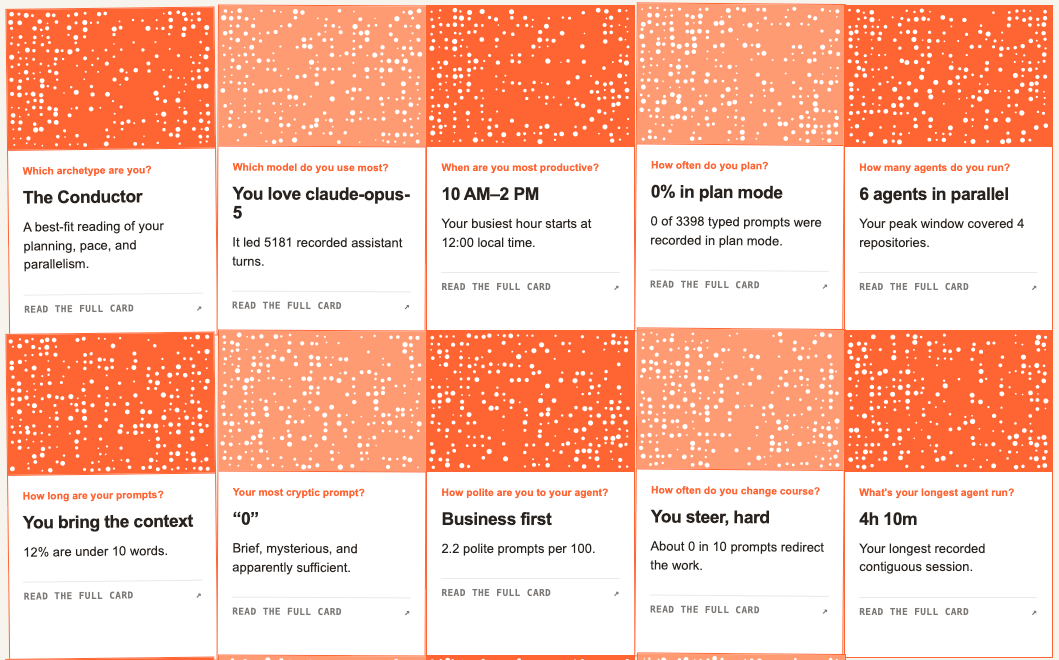
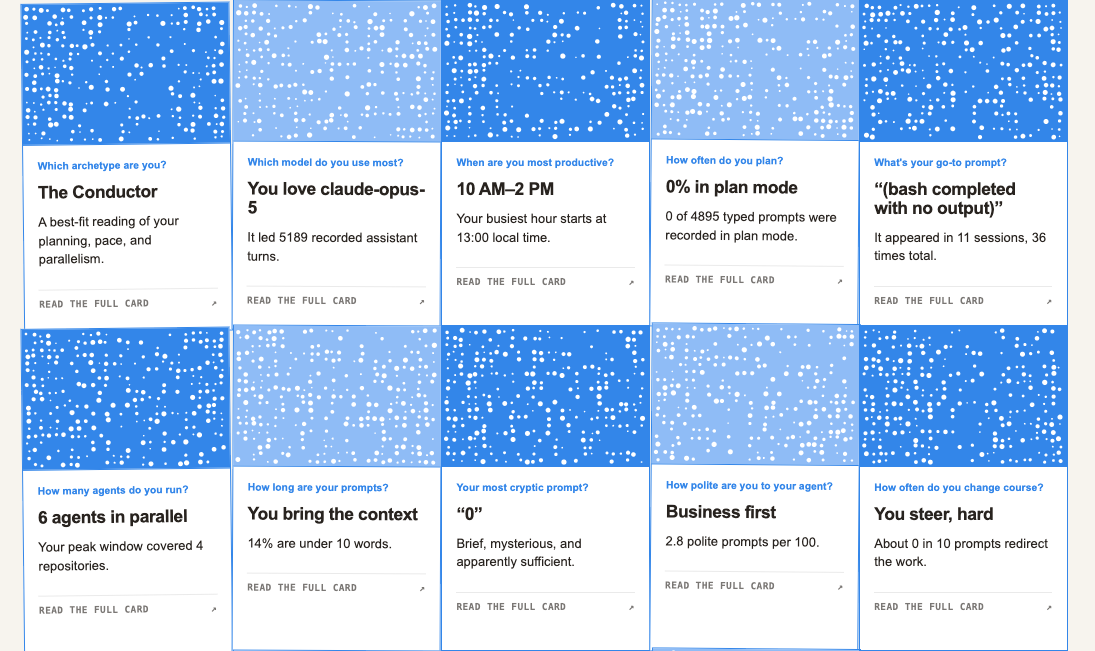
feat: adopt Provn blue report palette

diff --git a/glasshouse/render.py b/glasshouse/render.py
@@ -35,22 +35,22 @@ def render_report(report: dict, output_path: Path | str) -> Path:
     html = f'''<!doctype html>
 <html lang="en"><head><meta charset="utf-8"><meta name="viewport" content="width=device-width,initial-scale=1">
 <title>{title}</title><style>
-:root{{--ink:#28231f;--orange:#ff6433;--paper:#f7f4ee;--peach:#ff9b73}}
+:root{{--ink:#28231f;--primary:#3386e9;--primary-soft:#8fbcf6;--paper:#f7f4ee}}
 *{{box-sizing:border-box}} body{{margin:0;background:var(--paper);color:var(--ink);font-family:Arial,Helvetica,sans-serif}}
 main{{max-width:1440px;margin:auto;padding:7vw 5vw}} header{{display:flex;align-items:end;justify-content:space-between;gap:2rem;margin-bottom:2.6rem;border-bottom:2px solid var(--ink)}}
 h1{{font-size:clamp(3rem,8vw,8rem);letter-spacing:-.07em;line-height:.76;margin:0 0 .2em;text-transform:lowercase}} .period{{font:700 1rem/1 monospace;margin-bottom:1rem}}
-.grid{{display:grid;grid-template-columns:repeat(5,minmax(0,1fr));align-items:stretch}} .card{{min-height:365px;background:#fff;border:1.5px solid var(--orange);display:grid;grid-template-rows:43% 1fr;overflow:hidden;position:relative;cursor:pointer;transform-origin:50% 70%;transition:box-shadow .18s ease,translate .18s ease}}
+.grid{{display:grid;grid-template-columns:repeat(5,minmax(0,1fr));align-items:stretch}} .card{{min-height:365px;background:#fff;border:1.5px solid var(--primary);display:grid;grid-template-rows:43% 1fr;overflow:hidden;position:relative;cursor:pointer;transform-origin:50% 70%;transition:box-shadow .18s ease,translate .18s ease}}
 .card:nth-child(5n+1){{transform:rotate(-.65deg) translateY(3px)}} .card:nth-child(5n+2){{transform:rotate(.25deg)}} .card:nth-child(5n+4){{transform:rotate(.45deg) translateY(-2px)}} .card:nth-child(n+6){{margin-top:-4px}}
-.texture{{display:block;width:100%;height:100%;background:var(--orange);fill:#fff}} .card-1 .texture,.card-3 .texture{{background:var(--peach)}} .copy{{padding:1rem 1rem 1.4rem;border-top:1.5px solid var(--orange)}}
-.question{{color:var(--orange);font-size:.72rem;font-weight:700;margin:0 0 .85rem}} h2{{font-size:1.22rem;line-height:1.08;margin:0 0 .75rem;letter-spacing:-.025em}} .summary{{font-size:.9rem;line-height:1.45;margin:0}} .read-more{{display:flex;justify-content:space-between;gap:1rem;margin-top:1.35rem;padding-top:.65rem;border-top:1px solid #ddd;font:700 .66rem/1 monospace;text-transform:uppercase;letter-spacing:.04em;opacity:.62}}
+.texture{{display:block;width:100%;height:100%;background:var(--primary);fill:#fff}} .card-1 .texture,.card-3 .texture{{background:var(--primary-soft)}} .copy{{padding:1rem 1rem 1.4rem;border-top:1.5px solid var(--primary)}}
+.question{{color:var(--primary);font-size:.72rem;font-weight:700;margin:0 0 .85rem}} h2{{font-size:1.22rem;line-height:1.08;margin:0 0 .75rem;letter-spacing:-.025em}} .summary{{font-size:.9rem;line-height:1.45;margin:0}} .read-more{{display:flex;justify-content:space-between;gap:1rem;margin-top:1.35rem;padding-top:.65rem;border-top:1px solid #ddd;font:700 .66rem/1 monospace;text-transform:uppercase;letter-spacing:.04em;opacity:.62}}
 .card:focus-visible{{outline:3px solid var(--ink);outline-offset:4px;z-index:2}} .card:active{{translate:0 2px}}
 @keyframes card-wiggle{{0%{{rotate:0deg;translate:0 0}}28%{{rotate:-1.1deg;translate:0 -5px}}58%{{rotate:.8deg;translate:0 -7px}}82%{{rotate:-.35deg;translate:0 -5px}}100%{{rotate:0deg;translate:0 -4px}}}}
 @media (hover:hover) and (pointer:fine){{.card:hover{{animation:card-wiggle .36s cubic-bezier(.2,.8,.3,1) both;box-shadow:8px 10px 0 rgba(40,35,31,.12);z-index:3}}}}
 dialog{{width:100vw;max-width:none;height:100dvh;max-height:none;margin:0;padding:0;border:0;background:rgba(40,35,31,.72);color:var(--ink)}} dialog::backdrop{{background:rgba(40,35,31,.72)}} .modal-shell{{min-height:100%;display:grid;place-items:center;padding:clamp(1rem,4vw,4rem)}}
-.modal-card{{width:min(1040px,100%);min-height:min(720px,calc(100dvh - 4rem));display:grid;grid-template-columns:minmax(260px,38%) 1fr;background:#fff;border:2px solid var(--orange);box-shadow:18px 22px 0 rgba(0,0,0,.24);position:relative;overflow:hidden}}
-.modal-art{{background:var(--orange);min-height:280px;display:grid;place-items:center;overflow:hidden;position:relative}} .modal-art .texture{{position:absolute;inset:0;height:100%;width:100%}} .modal-copy{{padding:clamp(2rem,6vw,5rem);display:flex;flex-direction:column;justify-content:center}} .modal-question{{color:var(--orange);font:700 .78rem/1.2 monospace;text-transform:uppercase;letter-spacing:.05em}} .modal-headline{{font-size:clamp(2.5rem,6vw,5.8rem);line-height:.88;letter-spacing:-.06em;margin:.4em 0 .32em}} .modal-summary{{font-size:1.05rem;font-weight:700;line-height:1.45;margin:0 0 1.4rem}} .modal-detail{{font-size:clamp(1rem,1.6vw,1.25rem);line-height:1.65;max-width:58ch;margin:0}}
-.modal-close{{position:absolute;right:1rem;top:1rem;width:48px;height:48px;border:1.5px solid var(--ink);background:#fff;font-size:1.7rem;cursor:pointer;z-index:2}} .modal-close:focus-visible,.modal-nav button:focus-visible{{outline:3px solid var(--orange);outline-offset:3px}} .modal-nav{{display:flex;gap:.5rem;margin-top:2.5rem}} .modal-nav button{{border:1.5px solid var(--ink);background:#fff;padding:.8rem 1rem;font-weight:700;cursor:pointer}} body.modal-open{{overflow:hidden}}
-.provn-watermark{{position:fixed;left:14px;bottom:14px;z-index:20;display:flex;align-items:center;gap:8px;padding:7px 10px;background:rgba(247,244,238,.92);border:1px solid rgba(40,35,31,.18);color:var(--ink);text-decoration:none;box-shadow:3px 4px 0 rgba(40,35,31,.09);backdrop-filter:blur(6px)}} .provn-watermark span{{font:600 9px/1 monospace;text-transform:uppercase;letter-spacing:.05em;white-space:nowrap}} .provn-watermark img{{display:block;width:92px;height:auto}} .provn-watermark:hover{{border-color:var(--orange)}} .provn-watermark:focus-visible{{outline:3px solid var(--orange);outline-offset:3px}}
+.modal-card{{width:min(1040px,100%);min-height:min(720px,calc(100dvh - 4rem));display:grid;grid-template-columns:minmax(260px,38%) 1fr;background:#fff;border:2px solid var(--primary);box-shadow:18px 22px 0 rgba(0,0,0,.24);position:relative;overflow:hidden}}
+.modal-art{{background:var(--primary);min-height:280px;display:grid;place-items:center;overflow:hidden;position:relative}} .modal-art .texture{{position:absolute;inset:0;height:100%;width:100%}} .modal-copy{{padding:clamp(2rem,6vw,5rem);display:flex;flex-direction:column;justify-content:center}} .modal-question{{color:var(--primary);font:700 .78rem/1.2 monospace;text-transform:uppercase;letter-spacing:.05em}} .modal-headline{{font-size:clamp(2.5rem,6vw,5.8rem);line-height:.88;letter-spacing:-.06em;margin:.4em 0 .32em}} .modal-summary{{font-size:1.05rem;font-weight:700;line-height:1.45;margin:0 0 1.4rem}} .modal-detail{{font-size:clamp(1rem,1.6vw,1.25rem);line-height:1.65;max-width:58ch;margin:0}}
+.modal-close{{position:absolute;right:1rem;top:1rem;width:48px;height:48px;border:1.5px solid var(--ink);background:#fff;font-size:1.7rem;cursor:pointer;z-index:2}} .modal-close:focus-visible,.modal-nav button:focus-visible{{outline:3px solid var(--primary);outline-offset:3px}} .modal-nav{{display:flex;gap:.5rem;margin-top:2.5rem}} .modal-nav button{{border:1.5px solid var(--ink);background:#fff;padding:.8rem 1rem;font-weight:700;cursor:pointer}} body.modal-open{{overflow:hidden}}
+.provn-watermark{{position:fixed;left:14px;bottom:14px;z-index:20;display:flex;align-items:center;gap:8px;padding:7px 10px;background:rgba(247,244,238,.92);border:1px solid rgba(40,35,31,.18);color:var(--ink);text-decoration:none;box-shadow:3px 4px 0 rgba(40,35,31,.09);backdrop-filter:blur(6px)}} .provn-watermark span{{font:600 9px/1 monospace;text-transform:uppercase;letter-spacing:.05em;white-space:nowrap}} .provn-watermark img{{display:block;width:92px;height:auto}} .provn-watermark:hover{{border-color:var(--primary)}} .provn-watermark:focus-visible{{outline:3px solid var(--primary);outline-offset:3px}}
 footer{{margin-top:3rem;font:11px/1.5 monospace;border-top:1px solid;padding-top:1rem;word-break:break-word}}
 @media (max-width: 1050px){{.grid{{grid-template-columns:repeat(3,1fr)}}}}
 @media (max-width: 700px){{main{{padding:3rem 1rem}} header{{display:block}} .grid{{grid-template-columns:1fr}} .card{{min-height:330px;transform:none!important;margin:-1px 0 0!important}} .modal-shell{{padding:0}} .modal-card{{min-height:100dvh;grid-template-columns:1fr;grid-template-rows:28vh 1fr;box-shadow:none;border-width:0}} .modal-copy{{padding:2rem 1.4rem 3rem;justify-content:start}} .modal-headline{{font-size:clamp(2.5rem,13vw,4.5rem)}}}}

diff --git a/tests/test_glasshouse.py b/tests/test_glasshouse.py
@@ -129,6 +129,10 @@ class RenderAndCliTests(unittest.TestCase):
             html = a.read_text()
             self.assertEqual(html, b.read_text())
             self.assertIn("&lt;Architect&gt;", html)
+            self.assertIn("--primary:#3386e9", html)
+            self.assertIn("--primary-soft:#8fbcf6", html)
+            self.assertNotIn("#ff6433", html)
+            self.assertNotIn("#ff9b73", html)
             self.assertEqual(html.lower().count("<script>"), 1)
             self.assertNotIn("http://", html)
             self.assertEqual(html.count("https://"), 1)
